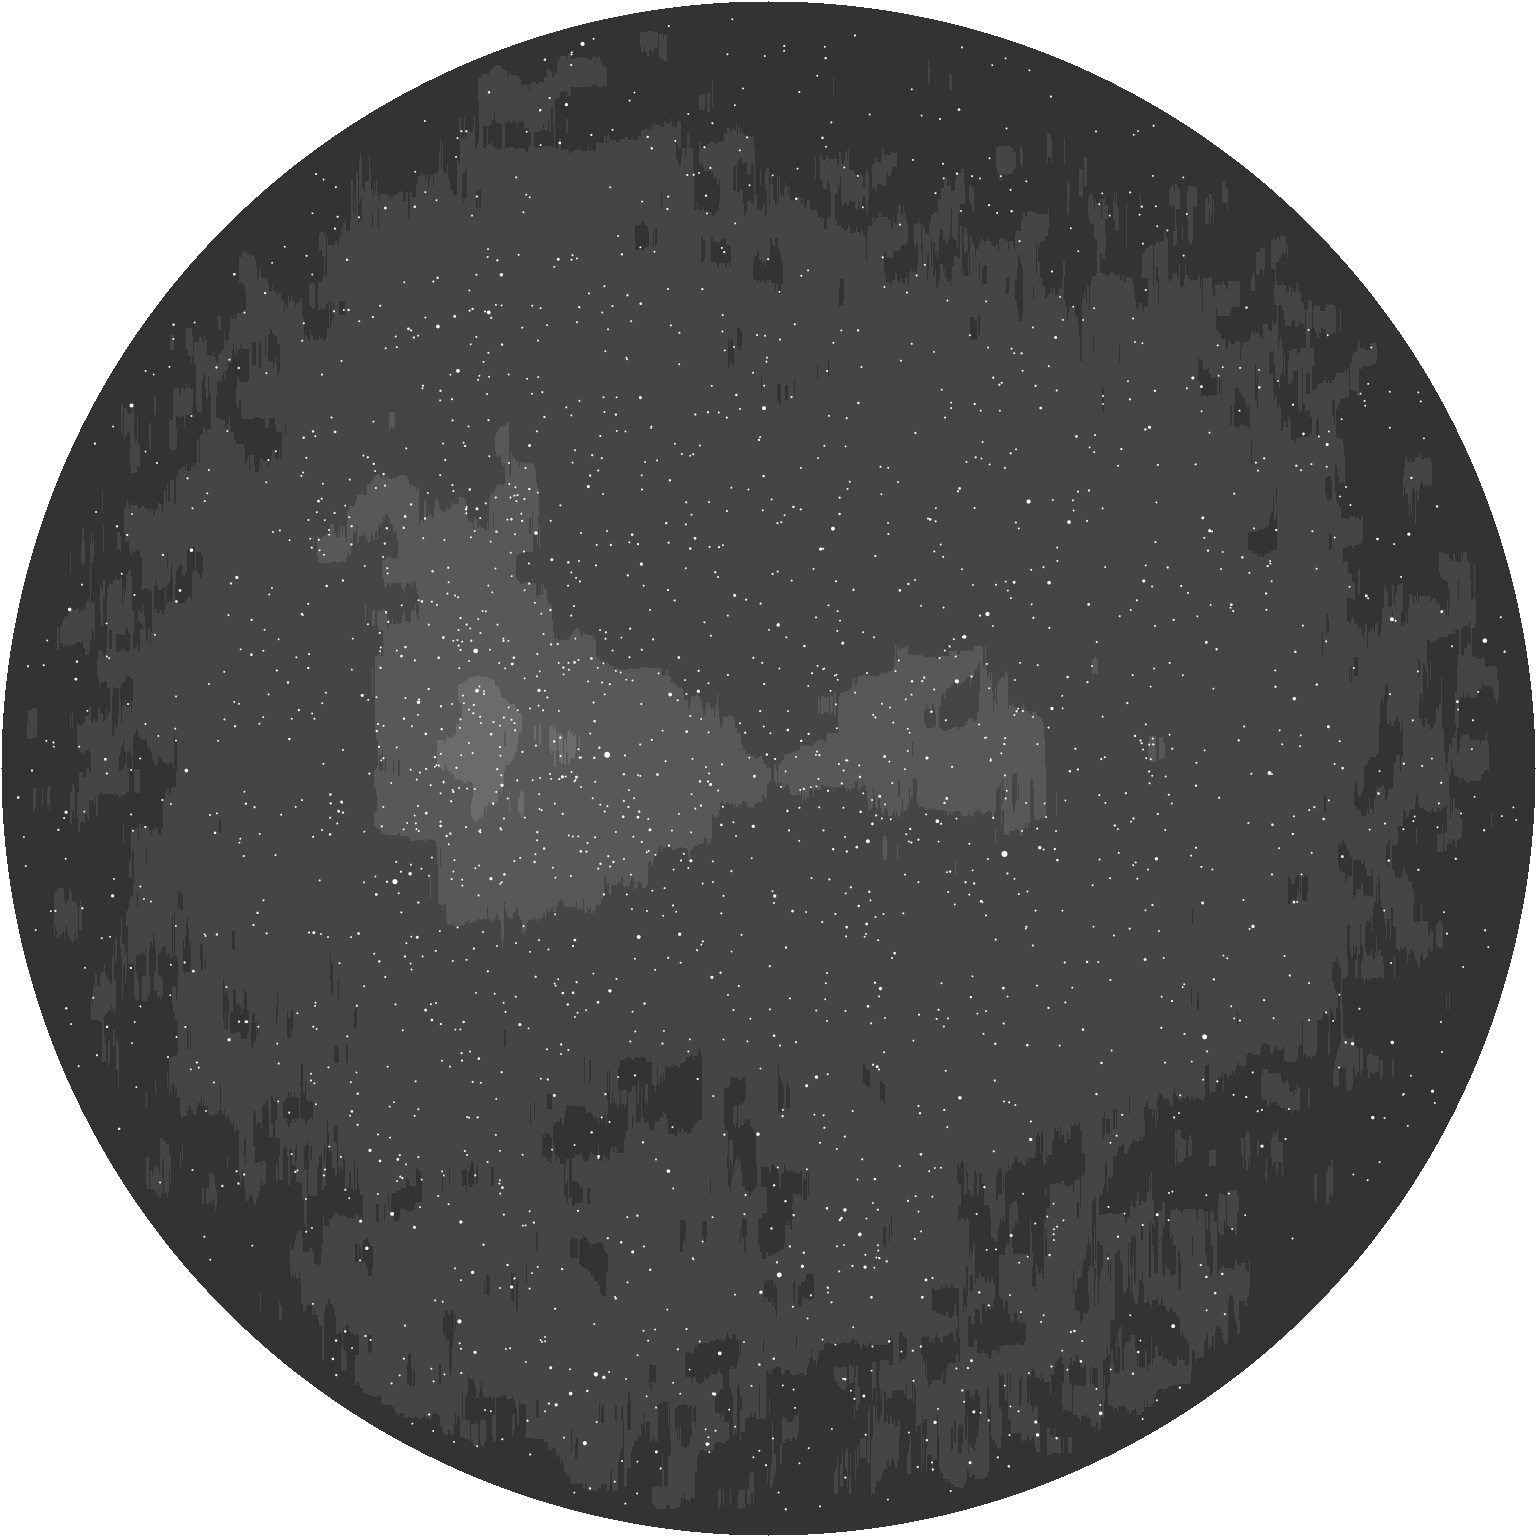
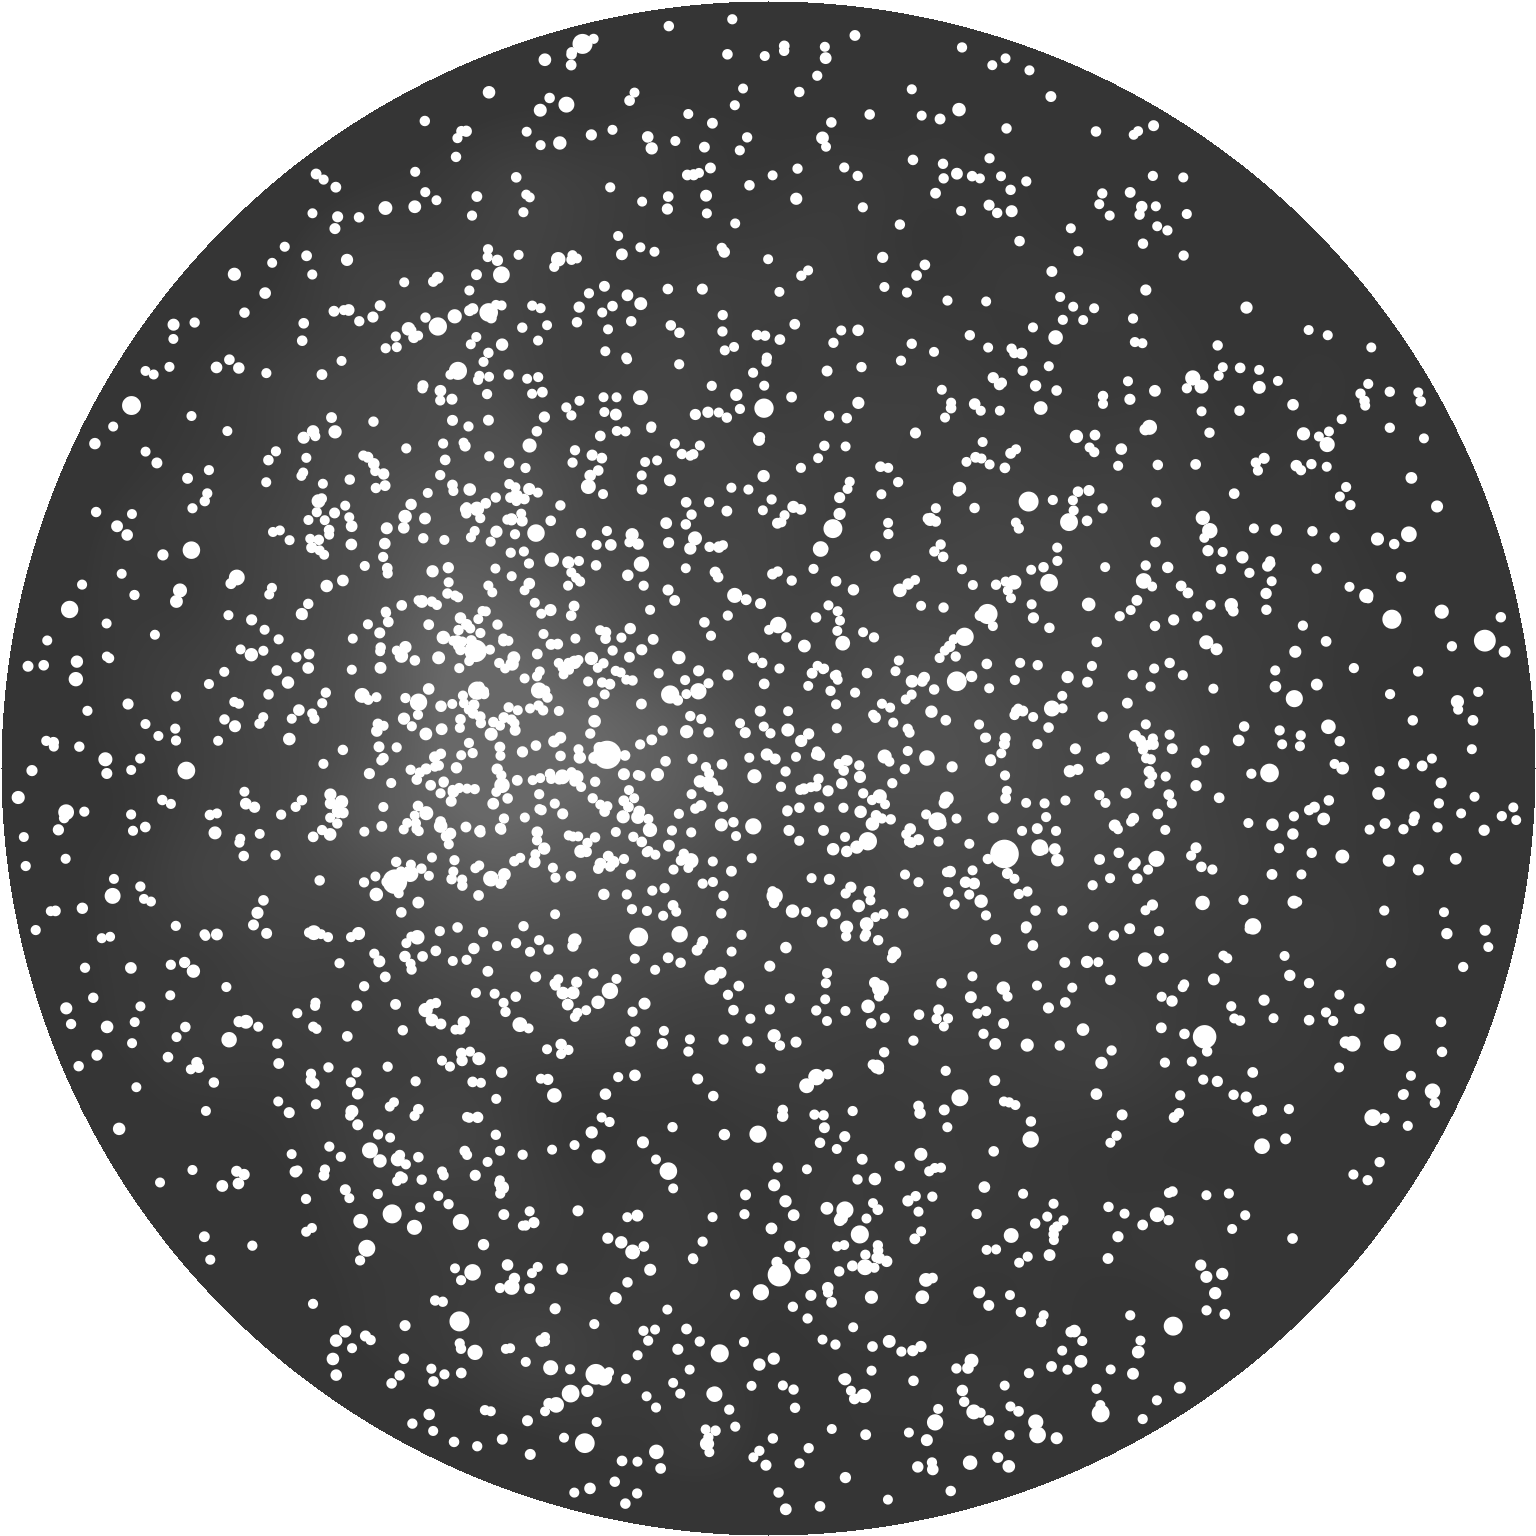
The sky was camouflage; make it a sky
The first pass accumulated 48,000 faint stars per pixel and blurred: 48,000
points scattered over 2.4 million pixels is not a density, it is a dot
pattern, and blurring a dot pattern makes blobs. It looked like camouflage.

Bin first, on a 96x96 grid, then blur, then upsample. And weight by FLUX
rather than by count, so a crowd of faint stars and one bright one are not
the same thing -- which is what makes the Milky Way appear as a band instead
of as a stain.

The stars were also drawn 1-4 px across on a 1536 px raster destined for a
192-cell grid, which is 8 px per cell: every one of them would have been
averaged away by the cell mean, and the picture is entirely stars. Radii are
expressed in CELLS now, 0.62 to 2.30, so the faintest is still most of a
cell and the brightest is a real hole. A hole smaller than a cell is not a
hole; it is a slightly paler cell, which is the one thing the cull exists to
prevent.

Also: PIL's GaussianBlur refuses mode "F", so the density blur is scipy's
float Gaussian -- the same one the bake now uses.

Claude-Session: https://claude.ai/code/session_01QB5TqitzLRw9mMtbAeY71h

diff --git a/src/lib/corpus.ts b/src/lib/corpus.ts
@@ -1,0 +1,161 @@
+import "server-only";
+
+import { orderedProjects, type Project } from "@/content";
+
+/**
+ * THE COLLATION — a case study, described the way a catalogue describes a leaf.
+ *
+ * A rare-book catalogue does not summarise a volume, it *collates* it: a single
+ * formula stating the physical make-up of the object in hand — how many
+ * gatherings, how many leaves, how many plates, in roman for the structure and
+ * arabic for the counts. It is the line a cataloguer writes so that another
+ * cataloguer, holding a different copy, can tell whether anything is missing.
+ *
+ *   PLATE III · V MOVEMENTS · 3 STAGES · 6 MATERIALS · 1 FIGURE · 241 WORDS ·
+ *   PULLED 2026-09-07
+ *
+ * Every value here is counted off the project's own record. Nothing is written,
+ * nothing is chosen, and there is no field anywhere in src/content for a human
+ * to fill in wrongly:
+ *
+ *   · PLATE      position in `orderedProjects` — the site's one fixed collated
+ *                order, which also drives routing, the sitemap and prev/next.
+ *   · MOVEMENTS  the sections the page actually renders. `MOVEMENTS` and
+ *                `hasCoda` below are the same values ProjectBody renders from,
+ *                imported rather than duplicated, so the count and the page
+ *                cannot disagree — this file is the only place either is stated.
+ *   · STAGES     `architecture.length`. It is 3 on all eight today; the page
+ *                degrades to a list at any other number and this line follows it.
+ *   · MATERIALS  `stack.length`. A printer's "materials" is what the sheet is
+ *                made of, which is exactly what a stack is.
+ *   · FIGURES    impressions on the sheet: the cover plate plus the gallery
+ *                plates. A *cancelled* plate is deliberately not counted — the
+ *                whole point of the cancellation is that it makes no
+ *                impressions — so the three NDA projects collate as no figures,
+ *                and the term is omitted entirely rather than printed as a zero,
+ *                which is what a catalogue does with something that isn't there.
+ *   · WORDS      problem + story + built + impact + learnings, split on
+ *                whitespace. The prose of the sheet, not its furniture.
+ *   · PULLED     the date this impression was taken, i.e. the build. The one
+ *                value that is about the copy rather than the work, which is
+ *                precisely what a pull date is.
+ *
+ * Roman for PLATE and MOVEMENTS, arabic for the counts. That is the convention
+ * and it is not decoration: the roman numbers are positions in a structure, the
+ * arabic numbers are quantities of things, and a catalogue that mixes them tells
+ * you nothing about which is which.
+ *
+ * Computed once, at module scope, for all eight projects. The page looks the
+ * answer up; it never counts anything itself.
+ */
+
+/* ── Roman ────────────────────────────────────────────────────────────────
+   Subtractive, up to XXXIX, which is roughly thirty years of shipping past
+   the eight plates that exist. Beyond it the function is honest rather than
+   clever and returns nothing, and the caller falls back to arabic. */
+const NUMERALS: ReadonlyArray<readonly [number, string]> = [
+  [10, "X"],
+  [9, "IX"],
+  [5, "V"],
+  [4, "IV"],
+  [1, "I"],
+];
+
+export function roman(n: number): string {
+  if (!Number.isInteger(n) || n < 1 || n > 39) return String(n);
+  let rest = n;
+  let out = "";
+  for (const [value, glyph] of NUMERALS) {
+    while (rest >= value) {
+      out += glyph;
+      rest -= value;
+    }
+  }
+  return out;
+}
+
+/* ── The movements, stated once ───────────────────────────────────────────
+   ProjectBody renders these titles and this predicate; the collation counts
+   them. One statement, two consumers, so "V MOVEMENTS" cannot outlive a
+   movement that was removed from the page. */
+export const MOVEMENTS = ["Problem", "Approach", "How it works", "Impact"] as const;
+
+/** The fifth movement, on the projects that have learnings to close on. */
+export const CODA = "What I’d do differently";
+
+export function hasCoda(project: Project): boolean {
+  return (project.learnings?.length ?? 0) > 0;
+}
+
+/* ── The counts ───────────────────────────────────────────────────────────── */
+
+/** The prose of the sheet: the four blocks the movements are drawn from, plus
+    the coda's list. Not the architecture strings — those are counted as stages
+    and printing them twice would flatter the page. */
+function wordCount(project: Project): number {
+  const prose = [
+    project.problem,
+    project.story,
+    project.built,
+    project.impact,
+    ...(project.learnings ?? []),
+  ]
+    .join(" ")
+    .trim();
+  return prose.length === 0 ? 0 : prose.split(/\s+/).length;
+}
+
+/** Impressions on the sheet. See the note on FIGURES above. */
+function figureCount(project: Project): number {
+  return (project.cover ? 1 : 0) + (project.media?.length ?? 0);
+}
+
+/** The date the impression was taken. One clock read, for the whole build. */
+const PULLED = new Date().toISOString().slice(0, 10);
+
+export type Collation = {
+  /** The formula, term by term, so the separator can be drawn in CSS and never
+      announced. Joining these with " · " gives the whole line. */
+  terms: string[];
+  plate: number;
+  movements: number;
+  stages: number;
+  materials: number;
+  figures: number;
+  words: number;
+  pulled: string;
+};
+
+function collate(project: Project, index: number): Collation {
+  const plate = index + 1;
+  const movements = MOVEMENTS.length + (hasCoda(project) ? 1 : 0);
+  const stages = project.architecture.length;
+  const materials = project.stack.length;
+  const figures = figureCount(project);
+  const words = wordCount(project);
+
+  const terms = [
+    `Plate ${roman(plate)}`,
+    `${roman(movements)} movements`,
+    `${stages} stages`,
+    `${materials} materials`,
+    ...(figures > 0 ? [`${figures} ${figures === 1 ? "figure" : "figures"}`] : []),
+    `${words} words`,
+    `Pulled ${PULLED}`,
+  ];
+
+  return { terms, plate, movements, stages, materials, figures, words, pulled: PULLED };
+}
+
+/**
+ * Every sheet, collated, at module scope — so the eight formulae are computed
+ * once per build rather than once per render, and every one of them is derived
+ * from the same array that decides what the routes are.
+ */
+export const collations: ReadonlyMap<string, Collation> = new Map(
+  orderedProjects.map((project, index) => [project.slug, collate(project, index)]),
+);
+
+export function collationOf(slug: string): Collation | undefined {
+  return collations.get(slug);
+}

diff --git a/scripts/make-sky.py b/scripts/make-sky.py
@@ -36,6 +36,7 @@ from pathlib import Path
 
 import numpy as np
 from PIL import Image, ImageFilter
+from scipy.ndimage import gaussian_filter
 
 ROOT = Path(__file__).resolve().parent.parent
 OUT = ROOT / "src/assets/sky/west-lafayette-2025-07-11.png"
@@ -46,12 +47,23 @@ URL = "https://raw.githubusercontent.com/astronexus/HYG-Database/main/hyg/CURREN
 LAT, LON = 40.4237, -86.9212
 UTC = (2025, 7, 12, 3, 0, 0)
 
-SIZE = 1536          # the raster is square; the sky disc inscribes it
+# The raster is square and the sky disc inscribes it. CELLS is the grid the
+# field will be baked at, and it is the number every size below is expressed
+# in -- a star drawn 3 px across on a 1536 px raster is a star that does not
+# survive the cell mean, and the whole picture is stars.
+CELLS = 192
+PX_PER_CELL = 8
+SIZE = CELLS * PX_PER_CELL
 NAKED_EYE = 6.0      # what an eye actually resolves as a point
 FAINT = 10.0         # fainter than this contributes only to the glow
-SKY_L = 0.20         # the ink floor: dense, but never closed -- a black
+SKY_L = 0.21         # the ink floor: dense, but never closed -- a black
                      # rectangle is not a halftone, it is a mistake
-MILKY = 0.22         # how far the crowded regions lift the sky toward paper
+MILKY = 0.20         # how far the crowded regions lift the sky toward paper
+# Star radii in CELLS. Sirius is not four times Vega on a plate; the eye reads
+# magnitude as area over a narrow range, and a hole smaller than a cell is not
+# a hole at all -- it is a slightly paler cell, which is the one thing the cull
+# is there to prevent.
+R_MIN, R_MAX = 0.62, 2.30
 
 
 def julian(y, m, d, hh, mm, ss):
@@ -120,7 +132,7 @@ def main() -> None:
                 if row.get("proper"):
                     named[row["proper"]] = (math.degrees(alt), mag)
             else:
-                glow.append((x, y))
+                glow.append((x, y, 10.0 ** (-0.4 * mag)))
 
     print(f"{len(bright)} stars to magnitude {NAKED_EYE}, {len(glow)} fainter for the glow")
     for n in ("Vega", "Deneb", "Altair", "Arcturus", "Polaris", "Antares"):
@@ -128,21 +140,31 @@ def main() -> None:
             print(f"  {n:<9} altitude {named[n][0]:5.1f}°  mag {named[n][1]:.2f}")
 
     # The sky: ink everywhere, thinning where the faint stars crowd.
-    dens = np.zeros((SIZE, SIZE), np.float32)
-    for x, y in glow:
-        xi, yi = int(x), int(y)
-        if 0 <= xi < SIZE and 0 <= yi < SIZE:
-            dens[yi, xi] += 1.0
-    dens = np.asarray(Image.fromarray((np.clip(dens, 0, 8) / 8 * 255).astype(np.uint8))
-                      .filter(ImageFilter.GaussianBlur(radius=SIZE / 110)), np.float32) / 255.0
-    dens /= max(dens.max(), 1e-6)
+    #
+    # Accumulated on a COARSE grid and then blurred, not per pixel. At full
+    # resolution 48,000 points scattered over 2.4 million pixels is not a
+    # density, it is a dot pattern, and blurring it just makes blobs -- the
+    # first version of this looked like camouflage. Binning first is what makes
+    # it a field. Weighted by flux rather than by count, so a crowd of faint
+    # stars and one bright one are not the same thing.
+    BINS = 96
+    dens = np.zeros((BINS, BINS), np.float64)
+    for x, y, flux in glow:
+        bx, by = int(x * BINS / SIZE), int(y * BINS / SIZE)
+        if 0 <= bx < BINS and 0 <= by < BINS:
+            dens[by, bx] += flux
+    dens = gaussian_filter(dens.astype(np.float32), sigma=2.2, mode="nearest")
+    dens = np.asarray(Image.fromarray(dens, "F").resize((SIZE, SIZE), Image.BICUBIC), np.float32)
+    lo, hi = np.percentile(dens, 40), np.percentile(dens, 99.2)
+    dens = np.clip((dens - lo) / max(hi - lo, 1e-9), 0.0, 1.0) ** 0.85
     lum = np.full((SIZE, SIZE), SKY_L, np.float32) + MILKY * dens
 
     # The stars: holes of bare paper, area by magnitude the way an eye sees them.
     stars = Image.new("F", (SIZE, SIZE), 0.0)
     sp = stars.load()
     for x, y, mag in bright:
-        r = 0.9 + 2.9 * ((NAKED_EYE - mag) / (NAKED_EYE + 1.5)) ** 1.6
+        t = (NAKED_EYE - mag) / (NAKED_EYE + 1.5)
+        r = (R_MIN + (R_MAX - R_MIN) * t ** 1.7) * PX_PER_CELL
         x0, x1 = int(x - r - 2), int(x + r + 3)
         y0, y1 = int(y - r - 2), int(y + r + 3)
         for yy in range(max(0, y0), min(SIZE, y1)):
